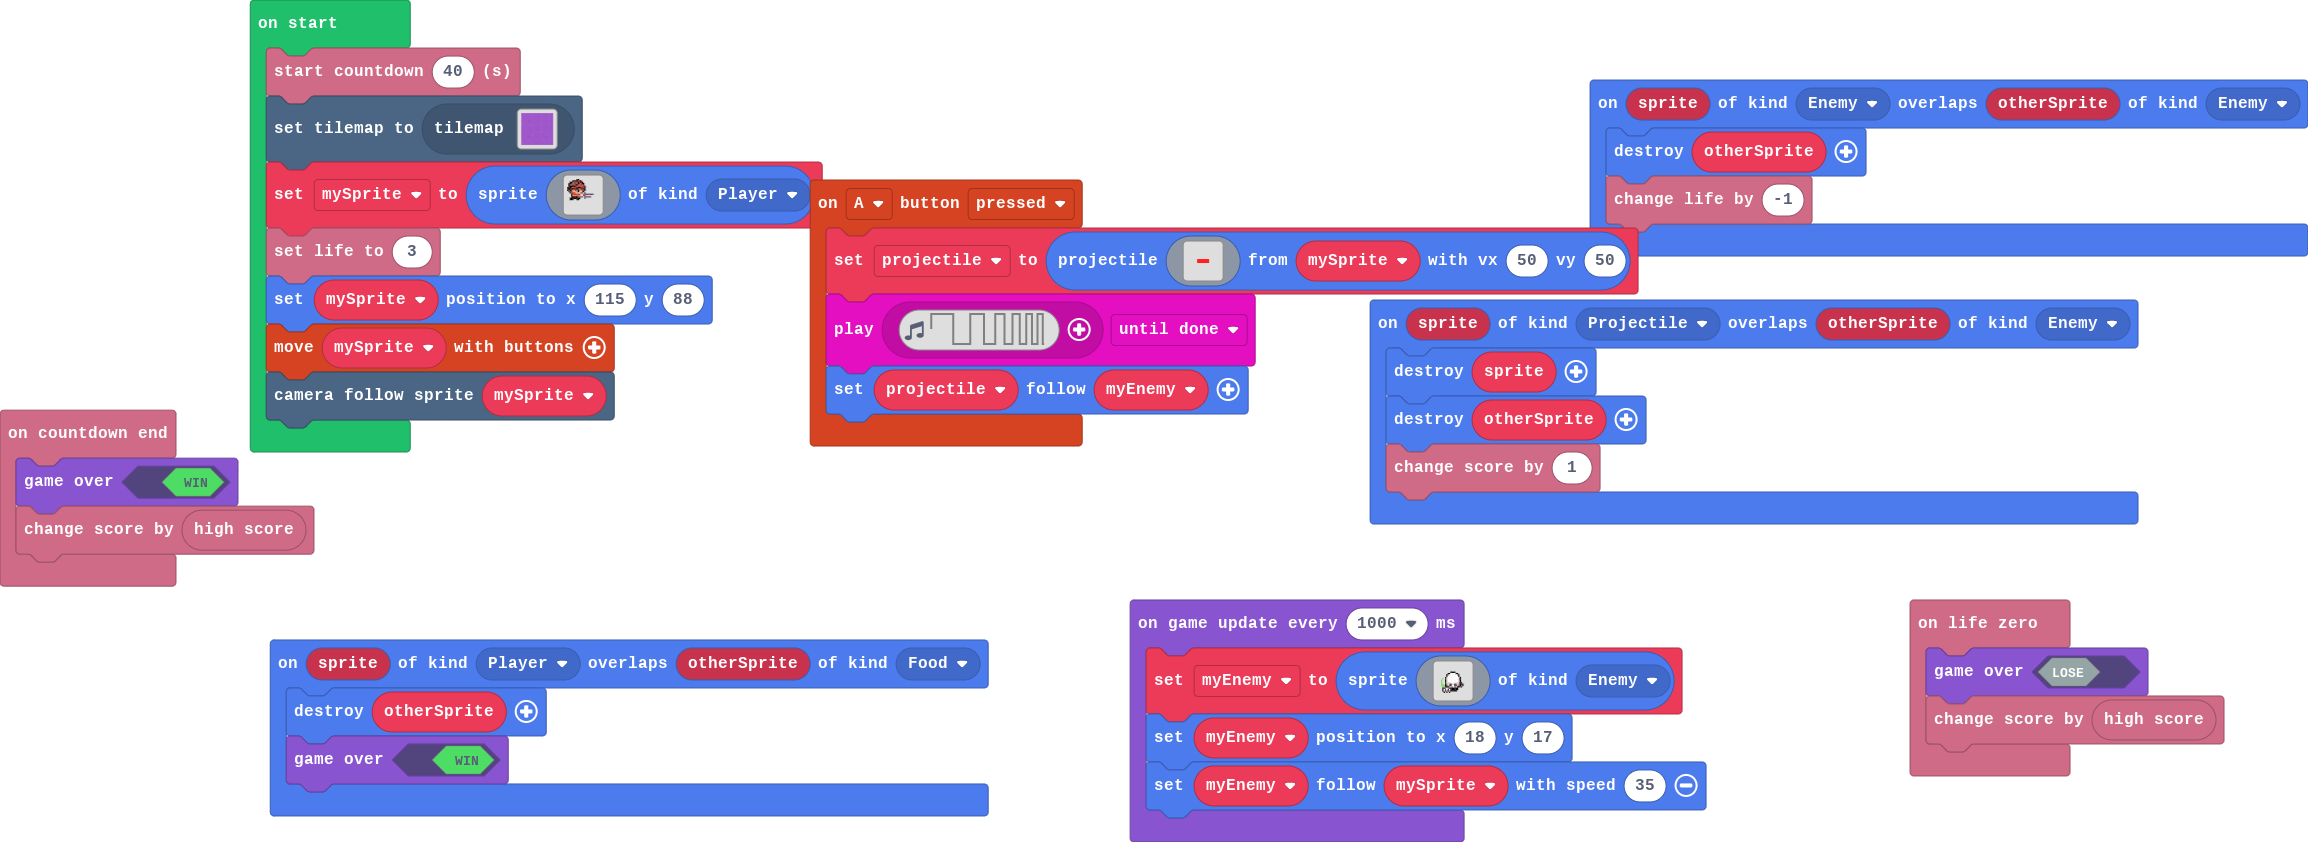
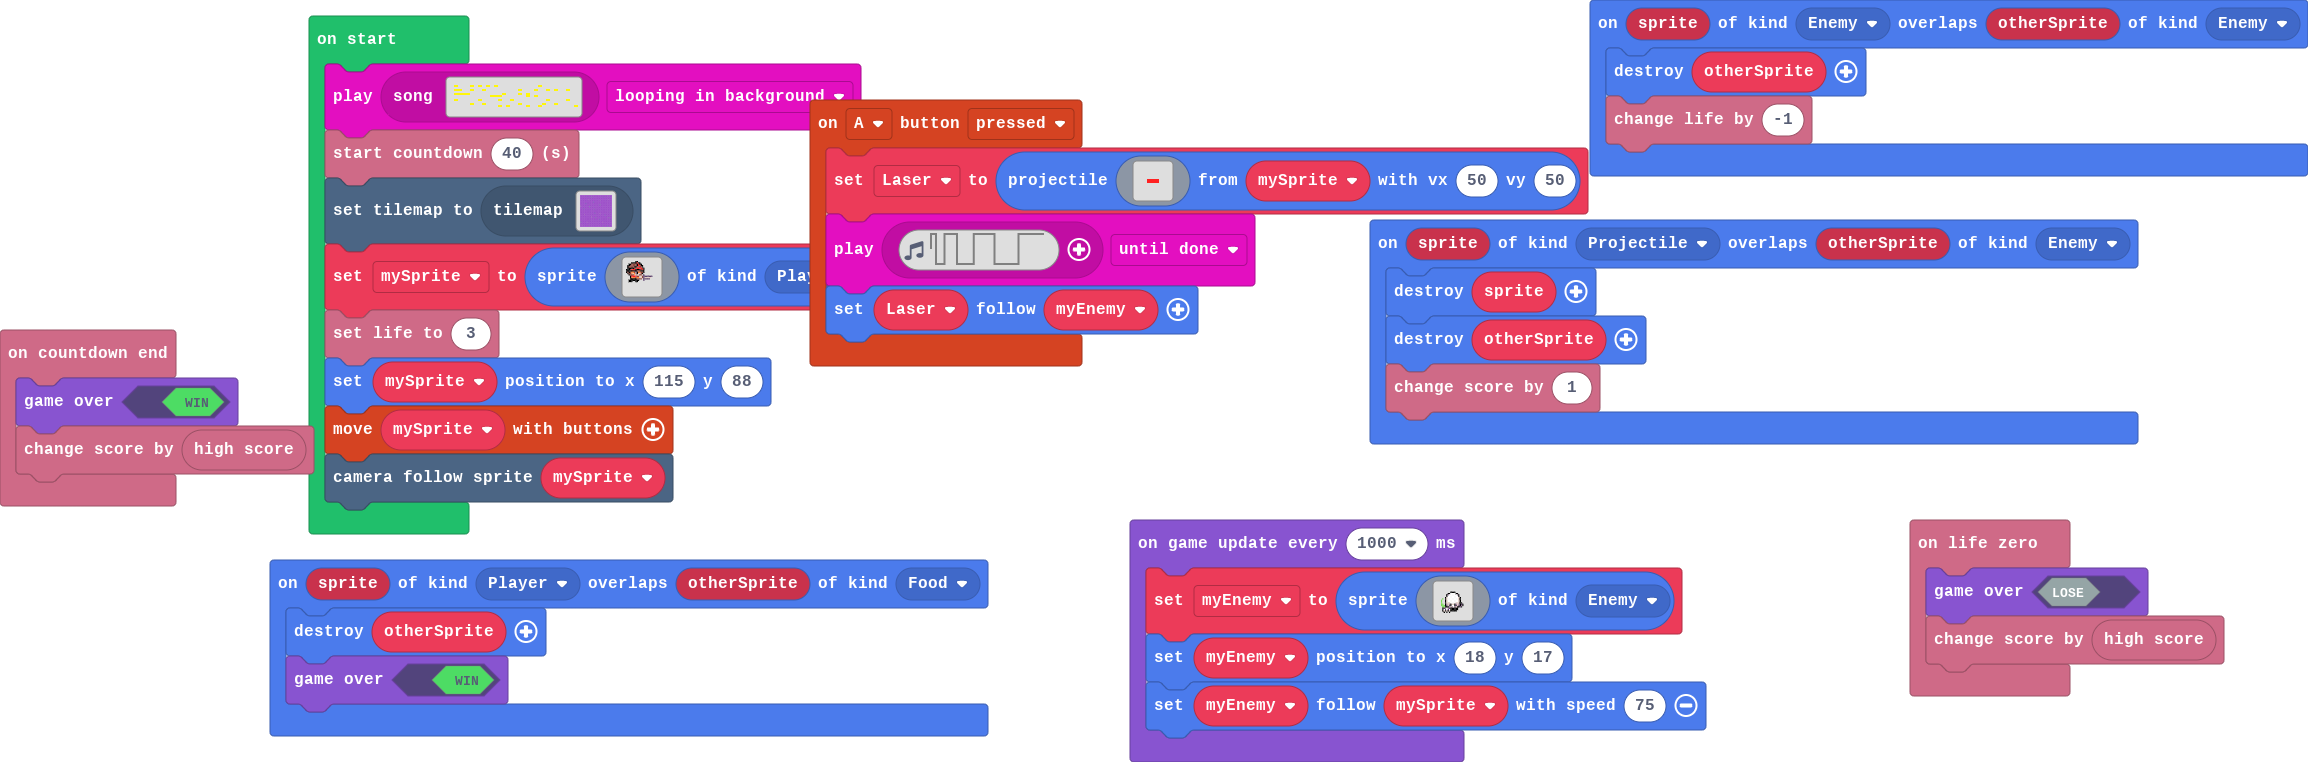
Update pxt.json, main.blocks, main.ts, tilemap.g.jres, tilemap.g.ts

diff --git a/tilemap.g.ts b/tilemap.g.ts
@@ -27,11 +27,11 @@ namespace myTiles {
 . . . . . . . . . . . . . . . . 
 `, [myTiles.transparency16], TileScale.Sixteen);
             case "level2":
-            case "level2":return tiles.createTilemap(hex`3200320001010101010101010101010101010101010101010101010101010101010101010101010101010101010101010101010101010101010101010101010101010101010101010101010101010101010101010101010101010101010101010101010101010101010101010101010101010101020101010101010101010101010101010101010101010101010101010101010105010101010101010101010101010101010101010101010105010101010101010101010101010101010102010101010101010101010101010101010101010101010101010101010101010101010101030101010101010101010101010101010101010101010101010101010101010101010101010101010101010101010101010101010101010101010101010101010101010101010101010101010101010101010101010101010101010101010101010101010101010101010101010101010101010101010101010101010101010101030101010101010101010104010101010101010101010101010101010101010101010101010101010101040101010101010101010101010101010101010101010101010101010101010101010101010401010101010101010101010101010101010101010101010101010101010101010101010101010101010101010101010101010101010101010101030101010101010101010101010101010101010101010101010101010101010101010101010101010101010101010101010101010101010101010101010101010101010101010101010101010101010101020101010101010101010101010101010101010101010101010101010101010101010101010101010101010101010101010101010101010101010101010101010101010101010101010101010101010101010101010101010201010101010101010101010101010101010101010101010101010103010101010101010101010101010101010101010101010101010101010101010101010101010101010101010101010101010101010101010101010101010101010101010101010101010101010101010101010101010101010101010101050101010101010101010101010101010101010101010101010101010101010101010101010101010101010103010101010101010101010101010101010101010101010101010401010101010101010101010101010101010101010101010101010101010101010101010101010101010101010101010101010101010101010101010101010105010101010301010101010101010101010101010101010101010101010101010101010101010101010101010101010101010101010101010101010101010101010101010101010101010101010101010101010101010101010101010101010101010101010101010101010101010101010101010101010101010101010101010101010101010101010101010102010101010101010101010101010101010101010101010101010101010101010101010101010101010101010101010101010101010101010101010101010101010101010101010101010101010101010101010101010101010101010101010101010101010101010101010101010101010101010101010101010101010101010101010101010301010101010101010101010101010101010101010101010101010101010101010101010101010101010103010101010101030101010101010101010101010101010101010101010101010101010101010101010101010101010101010101010101010101010101010101010101010101010101010101010101010101010101010101010101010101010101010101010101010101010101010101010101010101010101010101010101010101010301010101010101010101010101010101010101010101010101010101010101010101010101010101010101010101010101010101010101010101020101010101010101010101010101010101010101010101010101010101010101010101010101010101010101010101010101010101010101010401010101010101010101010101010101010101010101010101040101010101010101010101010101010101010101010101010101010101010101010101010101010101010101010101010101010101010101010101010101010101010101010101010101010101010101010201010101010101010101010101010101010101010101010101010101010101010101010101010101010101010101010101010101010101010101010101010101010101010101010101010101010101010101010101010101010101010101010101010101010101010101010101010101010101010101010101010101010101010401010101010101010101010101010101010101010101010101010101010101010101010101010101010101010101010101010101010101050101010101010101010101010101010101010101050101010101010101010101010101010101010101010101010101010101010101010101010101010101010101010101010101010101010101010101030101010101010101010101010101010101010101010101010101010101010101010101010101010101010101010101010101010101010101010101010101010101010101010101010101020101010101010101010101010101010101020101010101010101010101010101010101010101010101010101010101010101010101010101010101010101010101010101010101010101010101010101010101010101010101010101010101010101010101010101010101010101010101010101010101010101010101010101010101010101010101030101010101010101010101010101010101010101010101010101010101010101010101010101010101010401010101010101010101010101010101010101010101010401010101010101010103010101010101010101010101010101010101010101010101010101010101010101010101010101010101010101010101010101010101010101010101010101010101010101010101010101010101010101010101010101010101010101010101010101010101010101010101010101010101010101010101010101010101010101010101010101010101010101010101010101010101010101010101010101010101010101010101010101010101010101010101010101010101010101010101010101010101010101010101010101040101010101010101010105010101010101010101010101010301010101010101010101010101010101010101010101010101010101010101010101010101010101010101010101010101010101010101010105010101010101020101010101010101010101010101010101010101010101010101010101010101010101010101010101010101010101010101010101010101`, img`
+            case "level2":return tiles.createTilemap(hex`3200320001010101010101010101010101010101010101010101010101010101010101010101010101010101010101010101010101010101010101010101010101010101010101010101010101010101010101010101010101010101010101010101010101010101010101010101010101010101020101010101010101010101010101010101010101010101010101010101010105010101010101010101010101010101010101010101010105010101010101010101010101010101010102010101010101010101010101010101010101010101010101010101010101010101010101030101010101010101010101010101010101010101010101010101010101010101010101010101010101010101010101010101010101010101010101010101010101010101010101010101010101010101010101010101010101010101010101010101010101010101010101010101010101010101010101010101010101010101030101010101010101010104010101010101010101010101010101010101010101010101010101010101040101010101010101010101010101010101010101010101010101010101010101010101010401010101010101010101010101010101010101010101010101010101010101010101010101010101010101010101010101010101010101010101030101010101010101010101010101010101010101010101010101010101010101010101010101010101010101010101010101010101010101010101010101010101010101010101010101010101010101020101010101010101010101010101010101010101010101010101010101010101010101010101010101010101010101010101010101010101010101010101010101010101010101010101010101010101010101010101010201010101010101010101010101010101010101010101010101010103010101010101010101010101010101010101010101010101010101010101010101010101010101010101010101010101010101010101010101010101010101010101010101010101010101010101010101010101010101010101010101050101010101010101010101010101010101010101010101010101010101010101010101010101010101010103010101010101010101010101010101010101010101010101010401010101010101010101010101010101010101010101010101010101010101010101010101010101010101010101010101010101010101010101010101010105010101010301010101010101010101010101010101010101010101010101010101010101010101010101010101010101010101010101010101010101010101010101010101010101010101010101010101010101010101010101010101010101010101010101010101010101010101010101010101010101010101010101010101010101010101010101010102010101010101010101010101010101010101010101010101010101010101010101010101010101010101010101010101010101010101010101010101010101010105010101010101010101010101010101010101010101010101010101010101010101010101010101010101010101010101010101010101010101010101010101010101010301010101010101010101010101010101010101010101010101010101010101010101010101010101010103010101010101030101010101010101010101010101010101010101010101010101010101010101010101010101010101010101010101010101010101010101010101010101010101010101010101010101010101010101010101010101010101010101010101010101010101010101010105010101010101010101010101010101010301010101010101010101010101010101010101010101010101010101010101010101010101010101010101010101010101010101010101010101020101010101010101010101010101010101010101010101010101010101010101010101010101010101010101010101010101010101010101010401010101010101010101010101010101010101010101010101040101010101010101010101010101010101010101010101010101010101010101010101010101010101010101010101010101010101010101010101010101010101010101010101010101010101010101010201010101010101010101010101010101010101010101010101010101010101010101010101010101010101010101010101010101010101010101010101010101010101010101010101010101010101010101010101010101010101010101010101010101010101010101010101010101010101010101010101010101010101010401010101010101010101010101010101010101010101010101010101010101010101010101010101010101010101010101010101010101050101010101010101010101010101010101010101050101010101010101010101010101010101010101010101010101010101010101010101010101010101010101010101010101010101010101010101030101010101010101010101010101010101010101010101010101010101010101010101010101010101010101010101010101010101010101010101010101010101010101010101010101020101010101010101010101010101010101020101010101010101010101010101010101010101010101010101010101010101010101010101010101010101010101010101010101010101010101010101010101010101010101010101010101010101010101010101010101010101010101010101010101010101010101010101010101010101010101030101010101010101010101010101010101010101010101010101010101010101050101010101010101010401010101010101010101010101010101010101010101010401010101010101010103010101010101010101010101010101010101010101010101010101010101010101010101010101010101010101010101010101010101010101010101010101010101010101010101010101010101010101010101010101010101010101010101010101010101010101010101010101010101010101010101010101010101010101010101010101010101010101010101010101010101010101010101010101010101010101010101010101010101010101010101010101010101010101010101010101010101010101010101010101040101010101010101010105010101010101010101010101010301010101010101010101010101010101010101010101010101010101010101010101010101010101010101010101010101010101010101010105010101010101020101010101010101010101010101010101010101010101010101010101010101010101010101010101010101010101010101010101010101`, img`
 ..................................................
 ..................................................
-............2.....................................
-....................................2.............
+............2...............................2.....
+..................2.................2.............
 ..................................................
 ..................................................
 ..................................................
@@ -43,14 +43,14 @@ namespace myTiles {
 ..................................................
 .........2........................................
 ..................................................
-..................................................
+...............................2..................
 ..................................................
 .2................................................
-............................................2.....
+...............2............................2.....
 ..................................................
 ..................................................
 ......2...........................................
-..................................................
+......................2...........................
 ..................................................
 ..................................................
 ..................................................
@@ -63,20 +63,20 @@ namespace myTiles {
 ..................................................
 ..................................................
 ..................2...............................
+........................2....................2....
+..................................................
+..................................................
+..............................2.................2.
 ..................................................
 ..................................................
 ..................................................
-..............................2...................
-..................................................
-..................................................
-..................................................
-...........2.......................2..............
+.2.........2.......................2..............
 ..................................................
 ..................................................
 ..................................................
 ..................................................
-...2..............................................
-...........................................2......
+...2..........2...................................
+....................................2......2......
 ..................................................
 `, [myTiles.transparency16,sprites.swamp.swampTile9,sprites.swamp.swampTile3,sprites.swamp.swampTile13,sprites.swamp.swampTile16,sprites.builtin.forestTiles0], TileScale.Sixteen);
         }

diff --git a/main.ts b/main.ts
@@ -1,5 +1,5 @@
 controller.A.onEvent(ControllerButtonEvent.Pressed, function () {
-    projectile = sprites.createProjectileFromSprite(img`
+    Laser = sprites.createProjectileFromSprite(img`
         . . . . . . . . . . . . . . . . 
         . . . . . . . . . . . . . . . . 
         . . . . . . . . . . . . . . . . 
@@ -17,8 +17,8 @@ controller.A.onEvent(ControllerButtonEvent.Pressed, function () {
         . . . . . . . . . . . . . . . . 
         . . . . . . . . . . . . . . . . 
         `, mySprite, 50, 50)
-    music.play(music.createSoundEffect(WaveShape.Square, 1600, 5000, 255, 255, 300, SoundExpressionEffect.None, InterpolationCurve.Curve), music.PlaybackMode.UntilDone)
-    projectile.follow(myEnemy)
+    music.play(music.createSoundEffect(WaveShape.Square, 5000, 1, 255, 255, 300, SoundExpressionEffect.None, InterpolationCurve.Logarithmic), music.PlaybackMode.UntilDone)
+    Laser.follow(myEnemy)
 })
 sprites.onOverlap(SpriteKind.Enemy, SpriteKind.Enemy, function (sprite, otherSprite) {
     sprites.destroy(otherSprite)
@@ -42,8 +42,9 @@ sprites.onOverlap(SpriteKind.Projectile, SpriteKind.Enemy, function (sprite, oth
     info.changeScoreBy(1)
 })
 let myEnemy: Sprite = null
-let projectile: Sprite = null
+let Laser: Sprite = null
 let mySprite: Sprite = null
[1 lines of base64/hex data omitted]
 info.startCountdown(40)
 tiles.setCurrentTilemap(tilemap`level2`)
 mySprite = sprites.create(img`
@@ -104,5 +105,5 @@ game.onUpdateInterval(1000, function () {
         ........................
         `, SpriteKind.Enemy)
     myEnemy.setPosition(18, 17)
-    myEnemy.follow(mySprite, 35)
+    myEnemy.follow(mySprite, 75)
 })
